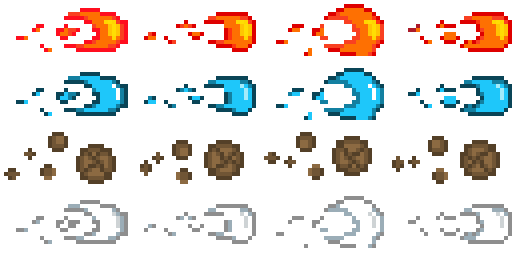
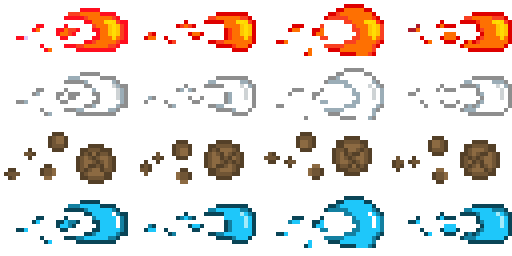
Level now updates whenever you kill certain amount of enemies. level no progressively gets harder.

diff --git a/src/GameViewPlayer.cpp b/src/GameViewPlayer.cpp
@@ -121,18 +121,23 @@ bool GameViewPlayer::checkKeyEvents( float deltaTime , sf::Keyboard::Key keycode
                 }
                 if (sf::Keyboard::isKeyPressed(sf::Keyboard::Return))
                 {
+                    currentLevel = game -> getLevel();
                     background.setSize(sf::Vector2f(bckgW,bckgH));
                     playerView.reset(sf::FloatRect(bckgW/2,bckgH/2,screenW,screenH));
                     background.setTextureRect(sf::IntRect(textureSize,textureSize,bckgW,bckgH));
-                    setBackgroundTexture(menu -> getSelectedElement());
+                    game -> setStartingElement(menu -> getSelectedElement());
+                    setBackgroundTexture((menu -> getSelectedElement() + game ->getLevel()) % 4);
+                    currentBckg = (menu -> getSelectedElement() + game ->getLevel()) % 4;
+                    elementalAttack = game -> getStartingElement();
                     window_ptr -> setView(playerView);
                     menu -> stopMusic();
+                    game -> startWave();
                     game -> setGameState(2);
-                    game -> setStartingElement(menu -> getSelectedElement());
                     game -> initiliaze(bckgW, bckgH, screenW, screenH, textureSize, playerW, playerH);
                     game -> resetPlayer();
-
-
+                    currentLevel = game -> getLevel();
+                    elementalIcon.setTextureRect(sf::IntRect(itemTextureSize*elementalAttack,0*itemTextureSize,itemTextureSize,itemTextureSize));
+                    cout<< "SELENA GOMEZ "<<(menu -> getSelectedElement() + game ->getLevel()) % 4<< endl;
                 }
             }
         }
@@ -251,11 +256,12 @@ bool GameViewPlayer::checkKeyEvents( float deltaTime , sf::Keyboard::Key keycode
                     }
 
                 }
+                /*
                 if (sf::Keyboard::isKeyPressed(sf::Keyboard::U))
                 {
                     game -> createRangedEnemy(deltaTime);
                 }
-
+                */
 
                 if (sf::Keyboard::isKeyPressed(sf::Keyboard::Up))
                 {
@@ -278,7 +284,9 @@ bool GameViewPlayer::checkKeyEvents( float deltaTime , sf::Keyboard::Key keycode
                 }
                 if (sf::Keyboard::isKeyPressed(sf::Keyboard::Escape))
                 {
+                    game -> setLevel(1);
                     game -> setGameState(0);
+                    elementalAttack = game -> getStartingElement();
                     elementalIcon.setPosition(bckgW/2 + 72  ,bckgH/2 + (screenH - 24 ));
                     itemIcon.setPosition(bckgW/2 + 72 + 64   ,bckgH/2 + (screenH - 24 ));
                     UIIcon.setPosition(bckgW/2 + 64  ,bckgH/2 + (screenH - 32 ));
@@ -308,13 +316,20 @@ void GameViewPlayer::setTitleScreen(TitleScreen* screen)
 
 void GameViewPlayer::update(float deltaTime)
 {
+    if(currentLevel != game -> getLevel())
+    {
+        currentBckg = ((currentBckg + 1) % 4) ;
+        cout<<"current bg " << currentBckg << endl;
+        setBackgroundTexture(currentBckg);
+        currentLevel = game -> getLevel();
+    }
     if(game -> isBasicAttackOnCd())
     {
         elementalIcon.setTextureRect(sf::IntRect(itemTextureSize*0,itemTextureSize*1,itemTextureSize,itemTextureSize));
     }
     else
     {
-        elementalIcon.setTextureRect(sf::IntRect(itemTextureSize*game->getStartingElement(),0*spellTextNum,itemTextureSize,itemTextureSize));
+        elementalIcon.setTextureRect(sf::IntRect(itemTextureSize*elementalAttack,0*itemTextureSize,itemTextureSize,itemTextureSize));
     }
     window_ptr -> draw( game -> getPlayer());
     window_ptr -> draw(UIIcon);
@@ -339,13 +354,13 @@ void GameViewPlayer::setBackgroundTexture(int element)
         background.setTexture(&fireBg);
         break;
     case 1:
-        background.setTexture(&waterBg);
+        background.setTexture(&airBg);
         break;
     case 2:
         background.setTexture(&earthBg);
         break;
     case 3:
-        background.setTexture(&airBg);
+        background.setTexture(&waterBg);
         break;
     }
 }

diff --git a/src/GameLogic.cpp b/src/GameLogic.cpp
@@ -54,10 +54,10 @@ void GameLogic::createPlayerAttack(char dir, float deltaTime)
 
 }
 
-void GameLogic::createRangedEnemy(float deltaTime)
+void GameLogic::createRangedEnemy()
 {
     shared_ptr<RangedEnemy> rEnemy =make_shared<RangedEnemy>(window_ptr,startingElement);
-    rEnemy->createRangedEnemy(1500, 1500);
+    rEnemy->createRangedEnemy();
     pm ->  attachProcess((shared_ptr<Process>) rEnemy);
 }
 void GameLogic::update(float deltaTime)
@@ -72,6 +72,13 @@ void GameLogic::update(float deltaTime)
     {
         basicAttackOnCd = true;
     }
+    if(pm -> checkEnemies() <= 0)
+    {
+        wave++;
+        startWave();
+        level++;
+    }
+
 }
 void GameLogic::idle()
 {
@@ -113,4 +120,27 @@ void GameLogic::clearGame()
 {
     pm -> clearManager();
     player.item( Process::NONE );
+}
+
+void GameLogic::setLevel(int level)
+{
+    this -> level = level;
+    this -> wave = 1;
+}
+int GameLogic::getLevel()
+{
+    return level;
+}
+
+void GameLogic::startWave()
+{
+    totalEnemies = 1 * wave;
+
+    cout<<"totalEnemies enemy " << totalEnemies << endl;
+    for (int enemies = 0; enemies<totalEnemies; enemies++)
+    {
+        cout<<"Created enemy " << enemies << endl;
+        createRangedEnemy();
+    }
+
 }

diff --git a/src/TitleScreen.cpp b/src/TitleScreen.cpp
@@ -71,7 +71,7 @@ void TitleScreen::drawElementOption( float deltaTime )
     fire.setOutlineThickness(2);
     water.setFont(GameFont);
     water.setString("Water");
-    water.setPosition(300,500);
+    water.setPosition(500,500);
     water.setColor(sf::Color::Blue);
     water.setOutlineColor( sf::Color( 0, 0, 0 ) );
     water.setOutlineThickness(2);
@@ -83,7 +83,7 @@ void TitleScreen::drawElementOption( float deltaTime )
     earth.setOutlineThickness(2);
     air.setFont(GameFont);
     air.setString("Air");
-    air.setPosition(500,500);
+    air.setPosition(300,500);
     air.setColor(sf::Color::White);
     air.setOutlineColor( sf::Color( 0, 0, 0 ) );
     air.setOutlineThickness(2);
@@ -94,13 +94,13 @@ void TitleScreen::drawElementOption( float deltaTime )
         fire.setColor(sf::Color::Yellow);
         break;
     case 1:
-        water.setColor(sf::Color::Yellow);
+        air.setColor(sf::Color::Yellow);
         break;
     case 2:
         earth.setColor(sf::Color::Yellow);
         break;
     case 3:
-        air.setColor(sf::Color::Yellow);
+        water.setColor(sf::Color::Yellow);
         break;
     }
     window_ptr -> draw( fire );

diff --git a/include/GameLogic.h b/include/GameLogic.h
@@ -20,6 +20,8 @@ class GameLogic
         float bckgW, bckgH, screenW, screenH, bckgPixSize;
         float playerW,playerH;
         int GameState = 0;
+        int level = 1;
+        int wave = 1;
         float basicAttackCd = 300;
         shared_ptr<ProcessManager> pm;
         shared_ptr<sf::RenderWindow> window_ptr;
@@ -28,6 +30,7 @@ class GameLogic
 
     public:
         Player player;
+        int totalEnemies;
         //BasicAttack bAttack;
 
         GameLogic();
@@ -45,11 +48,14 @@ class GameLogic
         void idle();
         void update(float deltaTime);
         void createPlayerAttack(char, float);
-        void createRangedEnemy(float deltaTime);
+        void createRangedEnemy();
         void setStartingElement(int startingElement);
         void resetPlayer();
         void grabItem();
         void clearGame();
+        void startWave();
+        void setLevel(int level);
+        int  getLevel();
         //void dropItem(loc_x, loc_y);
 
 

diff --git a/src/ProcessManager.cpp b/src/ProcessManager.cpp
@@ -3,7 +3,6 @@
 #include "Process.h"
 #include "iostream"
 #include <vector>
-#include "Items.h"
 #include <cstdlib>
 
 using namespace std;
@@ -55,7 +54,7 @@ void ProcessManager::updateProcessList(float deltaMs)
                             if(enemy -> health <= 0 )
                             {
                                 int itemDropRate = rand() % 100;
-                                int itemType = rand() % 3 + 1;
+                                int itemType = (rand() % 3) + 1;
                                 if( itemDropRate >= 30 )
                                 {
                                 itemList.push_back(enemy);
@@ -127,4 +126,9 @@ void ProcessManager::clearManager()
     processList.clear();
     itemList.clear();
     enemyList.clear();
+}
+
+int ProcessManager::checkEnemies()
+{
+    return enemyList.size();
 }

diff --git a/src/RangedEnemy.cpp b/src/RangedEnemy.cpp
@@ -1,7 +1,6 @@
 #include "RangedEnemy.h"
 #include "ProcessManager.h"
 #include <cstdlib>
-#include "Items.h"
 
 RangedEnemy::RangedEnemy(shared_ptr<sf::RenderWindow> window_ptr, int attackElement)
 {
@@ -15,12 +14,12 @@ RangedEnemy::RangedEnemy(shared_ptr<sf::RenderWindow> window_ptr, int attackElem
     this -> attackElement = attackElement;
 }
 
-void RangedEnemy::createRangedEnemy(float x_pos, float y_pos)
+void RangedEnemy::createRangedEnemy()
 {
 
     this -> body.setSize( sf::Vector2f( playerW, playerH ) );
-    float loc_x = rand() % 2400;
-    float loc_y = rand() % 1800;
+    float loc_x = (rand() % (1200 - 200) + 100);
+    float loc_y = (rand() % (900 - 200) + 100);
     this -> body.setPosition(loc_x, loc_y);
     this -> body.setTexture(&image);
     initialize();

diff --git a/bin/GameApplicationLayer.cpp b/bin/GameApplicationLayer.cpp
@@ -46,12 +46,12 @@ int main(int argc, char** argv)
 			keycode = Event.key.code;
 		}
             }
-	}
+        }
 
         need_key_value = gvp.checkKeyEvents( deltaTime, keycode);
-	if(!need_key_value){
-		keycode = sf::Keyboard::Unknown;
-	}
+        if(!need_key_value){
+            keycode = sf::Keyboard::Unknown;
+        }
 
         if( game -> getGameState() == 0 )
         {
@@ -64,9 +64,9 @@ int main(int argc, char** argv)
             menu.drawElementOption(deltaTime);
         }
         if( game -> getGameState() == 3 )
-	{
+        {
 	    menu.drawOptionsScreen(deltaTime);
-	}
+        }
 
         if ( game -> getGameState() == 2 )
         {

diff --git a/include/RangedEnemy.h b/include/RangedEnemy.h
@@ -5,7 +5,6 @@
 #include "Process.h"
 #include "ProcessManager.h"
 #include <memory>
-#include "EventManager.h"
 
 using namespace std;
 
@@ -32,7 +31,7 @@ public:
     RangedEnemy(shared_ptr<sf::RenderWindow> window_ptr, int startingElement);
     void update(float deltaTime);
     //void animation( float deltaTime, char dir);
-    void createRangedEnemy(float x_pos, float y_pos);
+    void createRangedEnemy();
     sf::RectangleShape getEnemyBody();
     //float getXPos();
     //float getYPos();

diff --git a/src/BasicAttack.cpp b/src/BasicAttack.cpp
@@ -8,7 +8,7 @@ BasicAttack::BasicAttack(shared_ptr<sf::RenderWindow> window_ptr, int startingEl
     if( !image.loadFromFile( "../Assets/Images/elemental_attack.png" ))
         cout<<"Cannot load AttackSprite"<<endl;
 
-    body.setTextureRect(sf::IntRect(128 * 0 ,64 * startingElement,128 * 1,64 * 1));
+    body.setTextureRect(sf::IntRect(128 * 0 ,64 * 1,128 * 1,64 * 1));
     this -> startingElement = startingElement;
 }
 

diff --git a/include/GameViewPlayer.h b/include/GameViewPlayer.h
@@ -28,6 +28,9 @@ class GameViewPlayer
         sf::RectangleShape UIIcon;
         sf::View playerView;
         GameLogic* game;
+        float elementalAttack;
+        int  currentBckg;
+        int  currentLevel ;
         float movementSpeed = .4f;
         int   bckgTextNum;
         int   spellAssetCol = 0;

diff --git a/include/ProcessManager.h b/include/ProcessManager.h
@@ -20,6 +20,7 @@ class ProcessManager
         void abortAllProcess();
         int itemNearBy(sf::RectangleShape body);
         void clearManager();
+        int checkEnemies();
         ProcessManager(){};
 };
 
